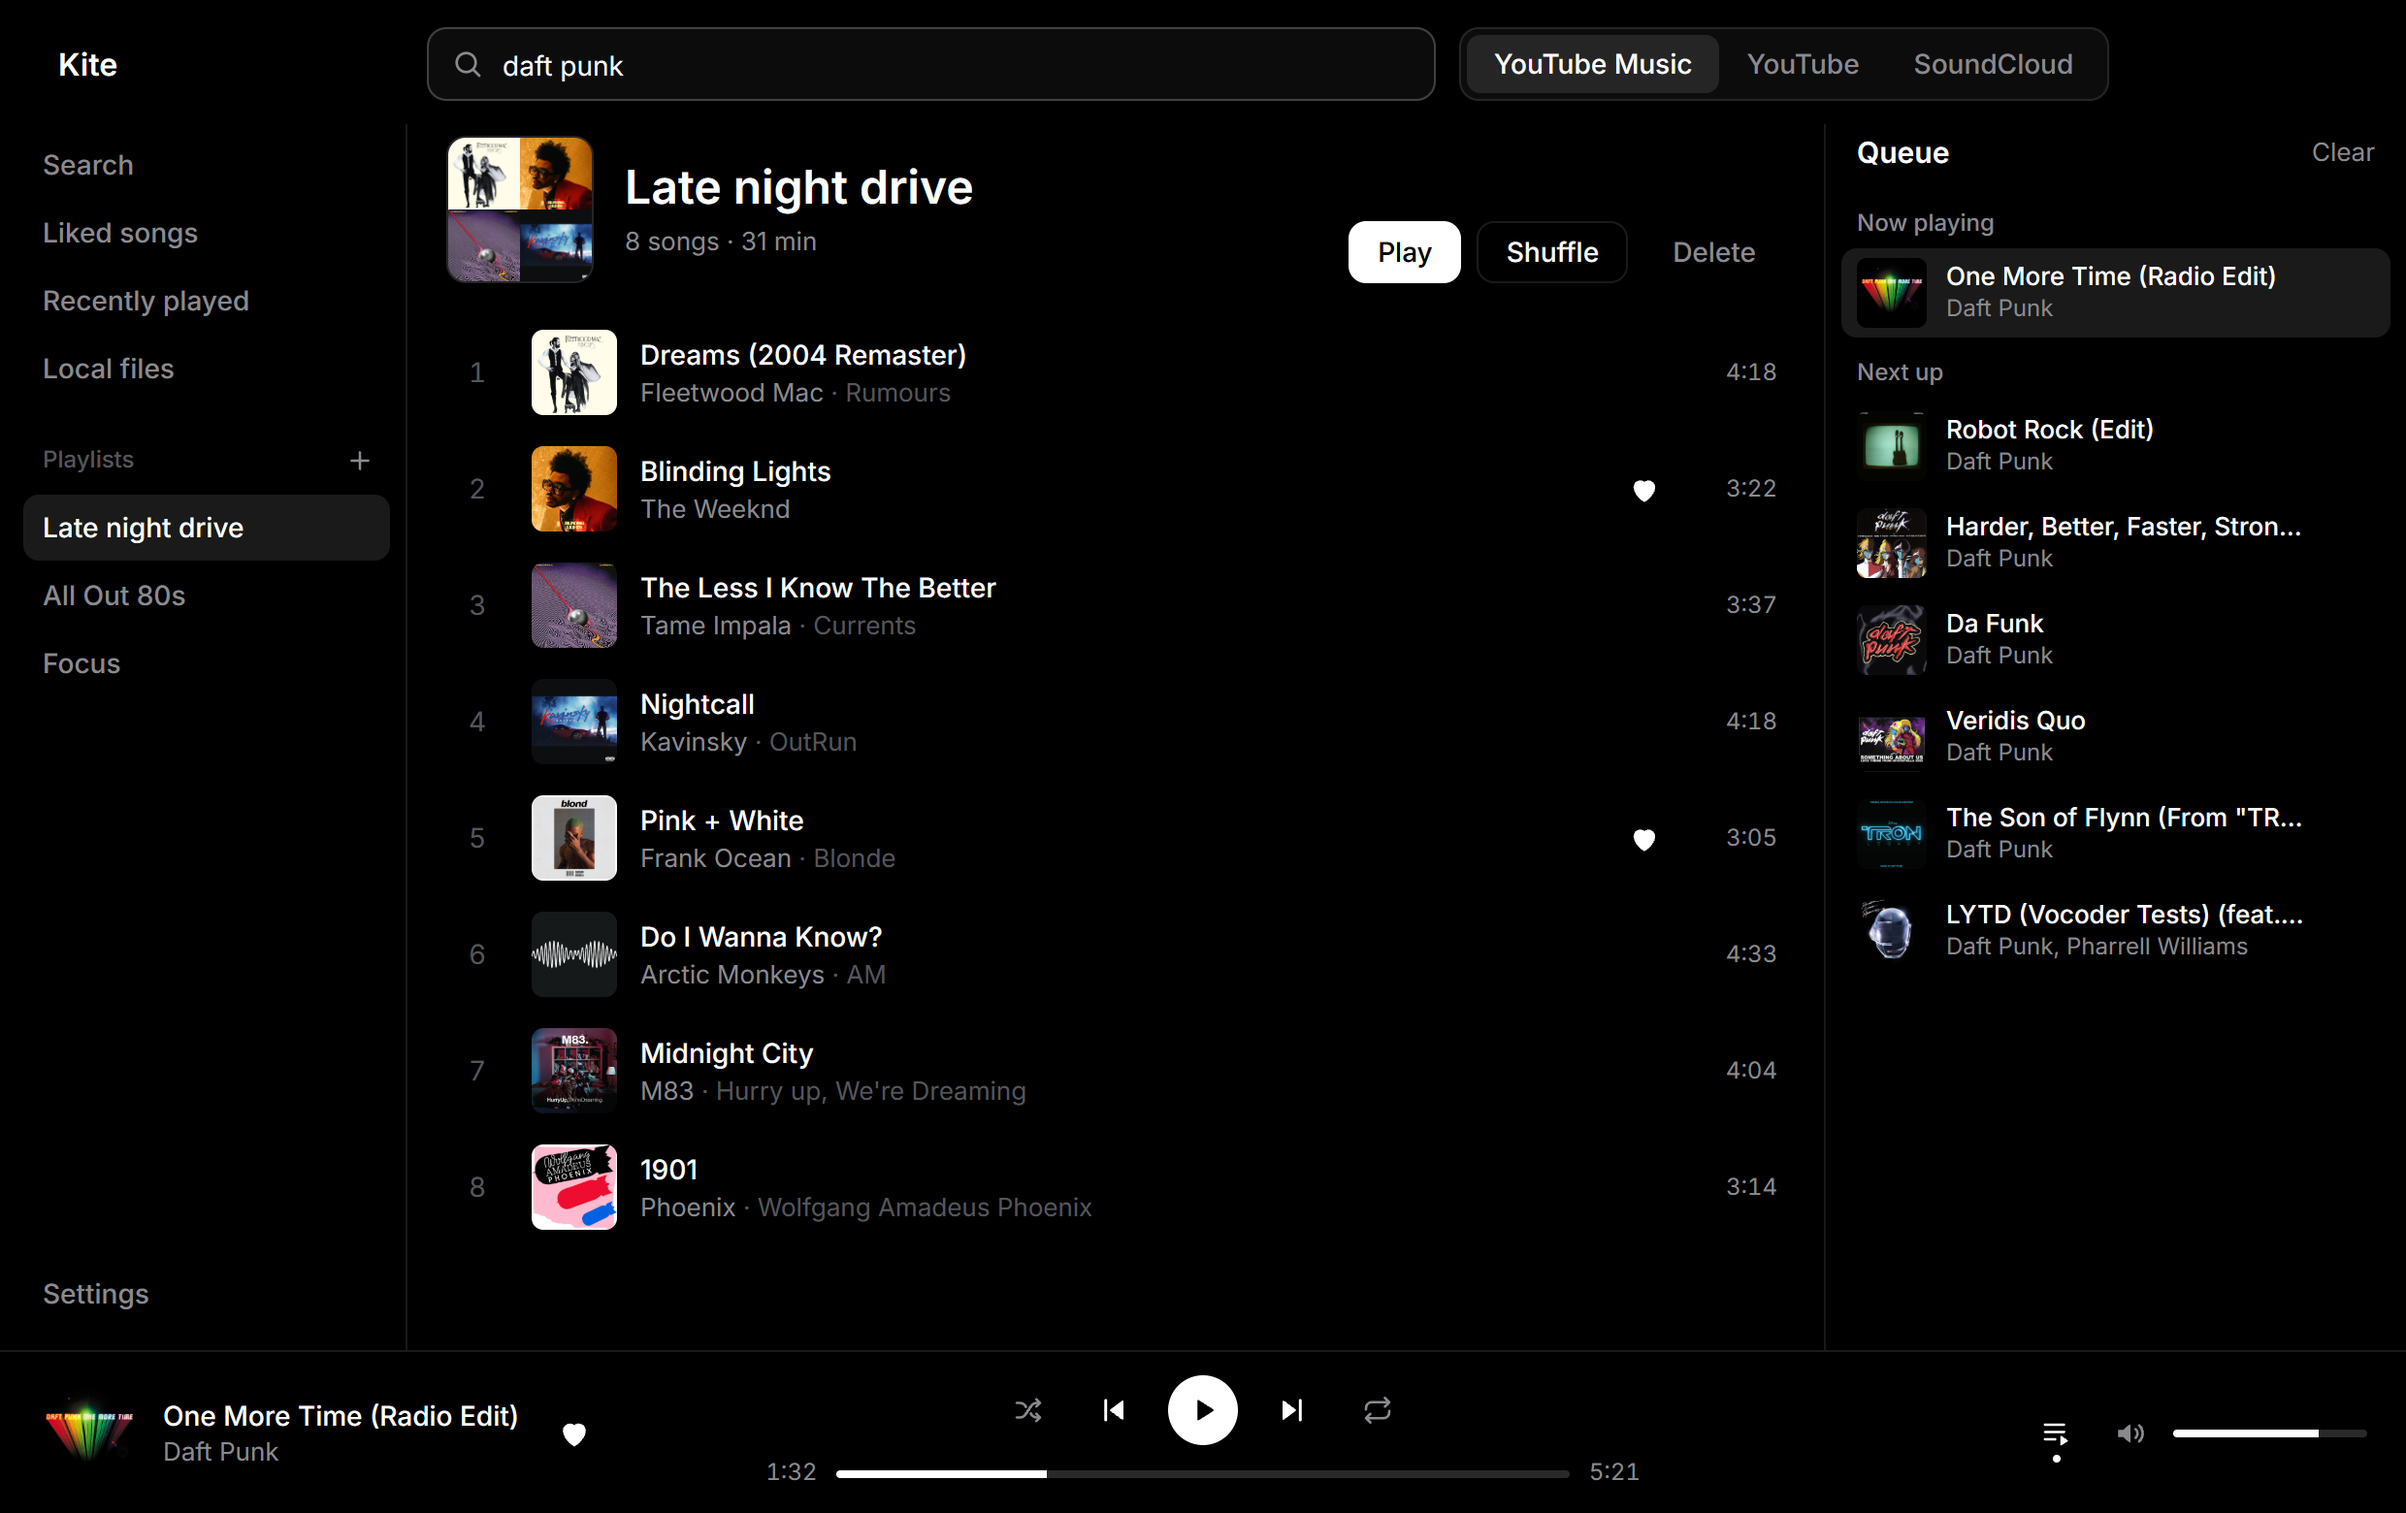
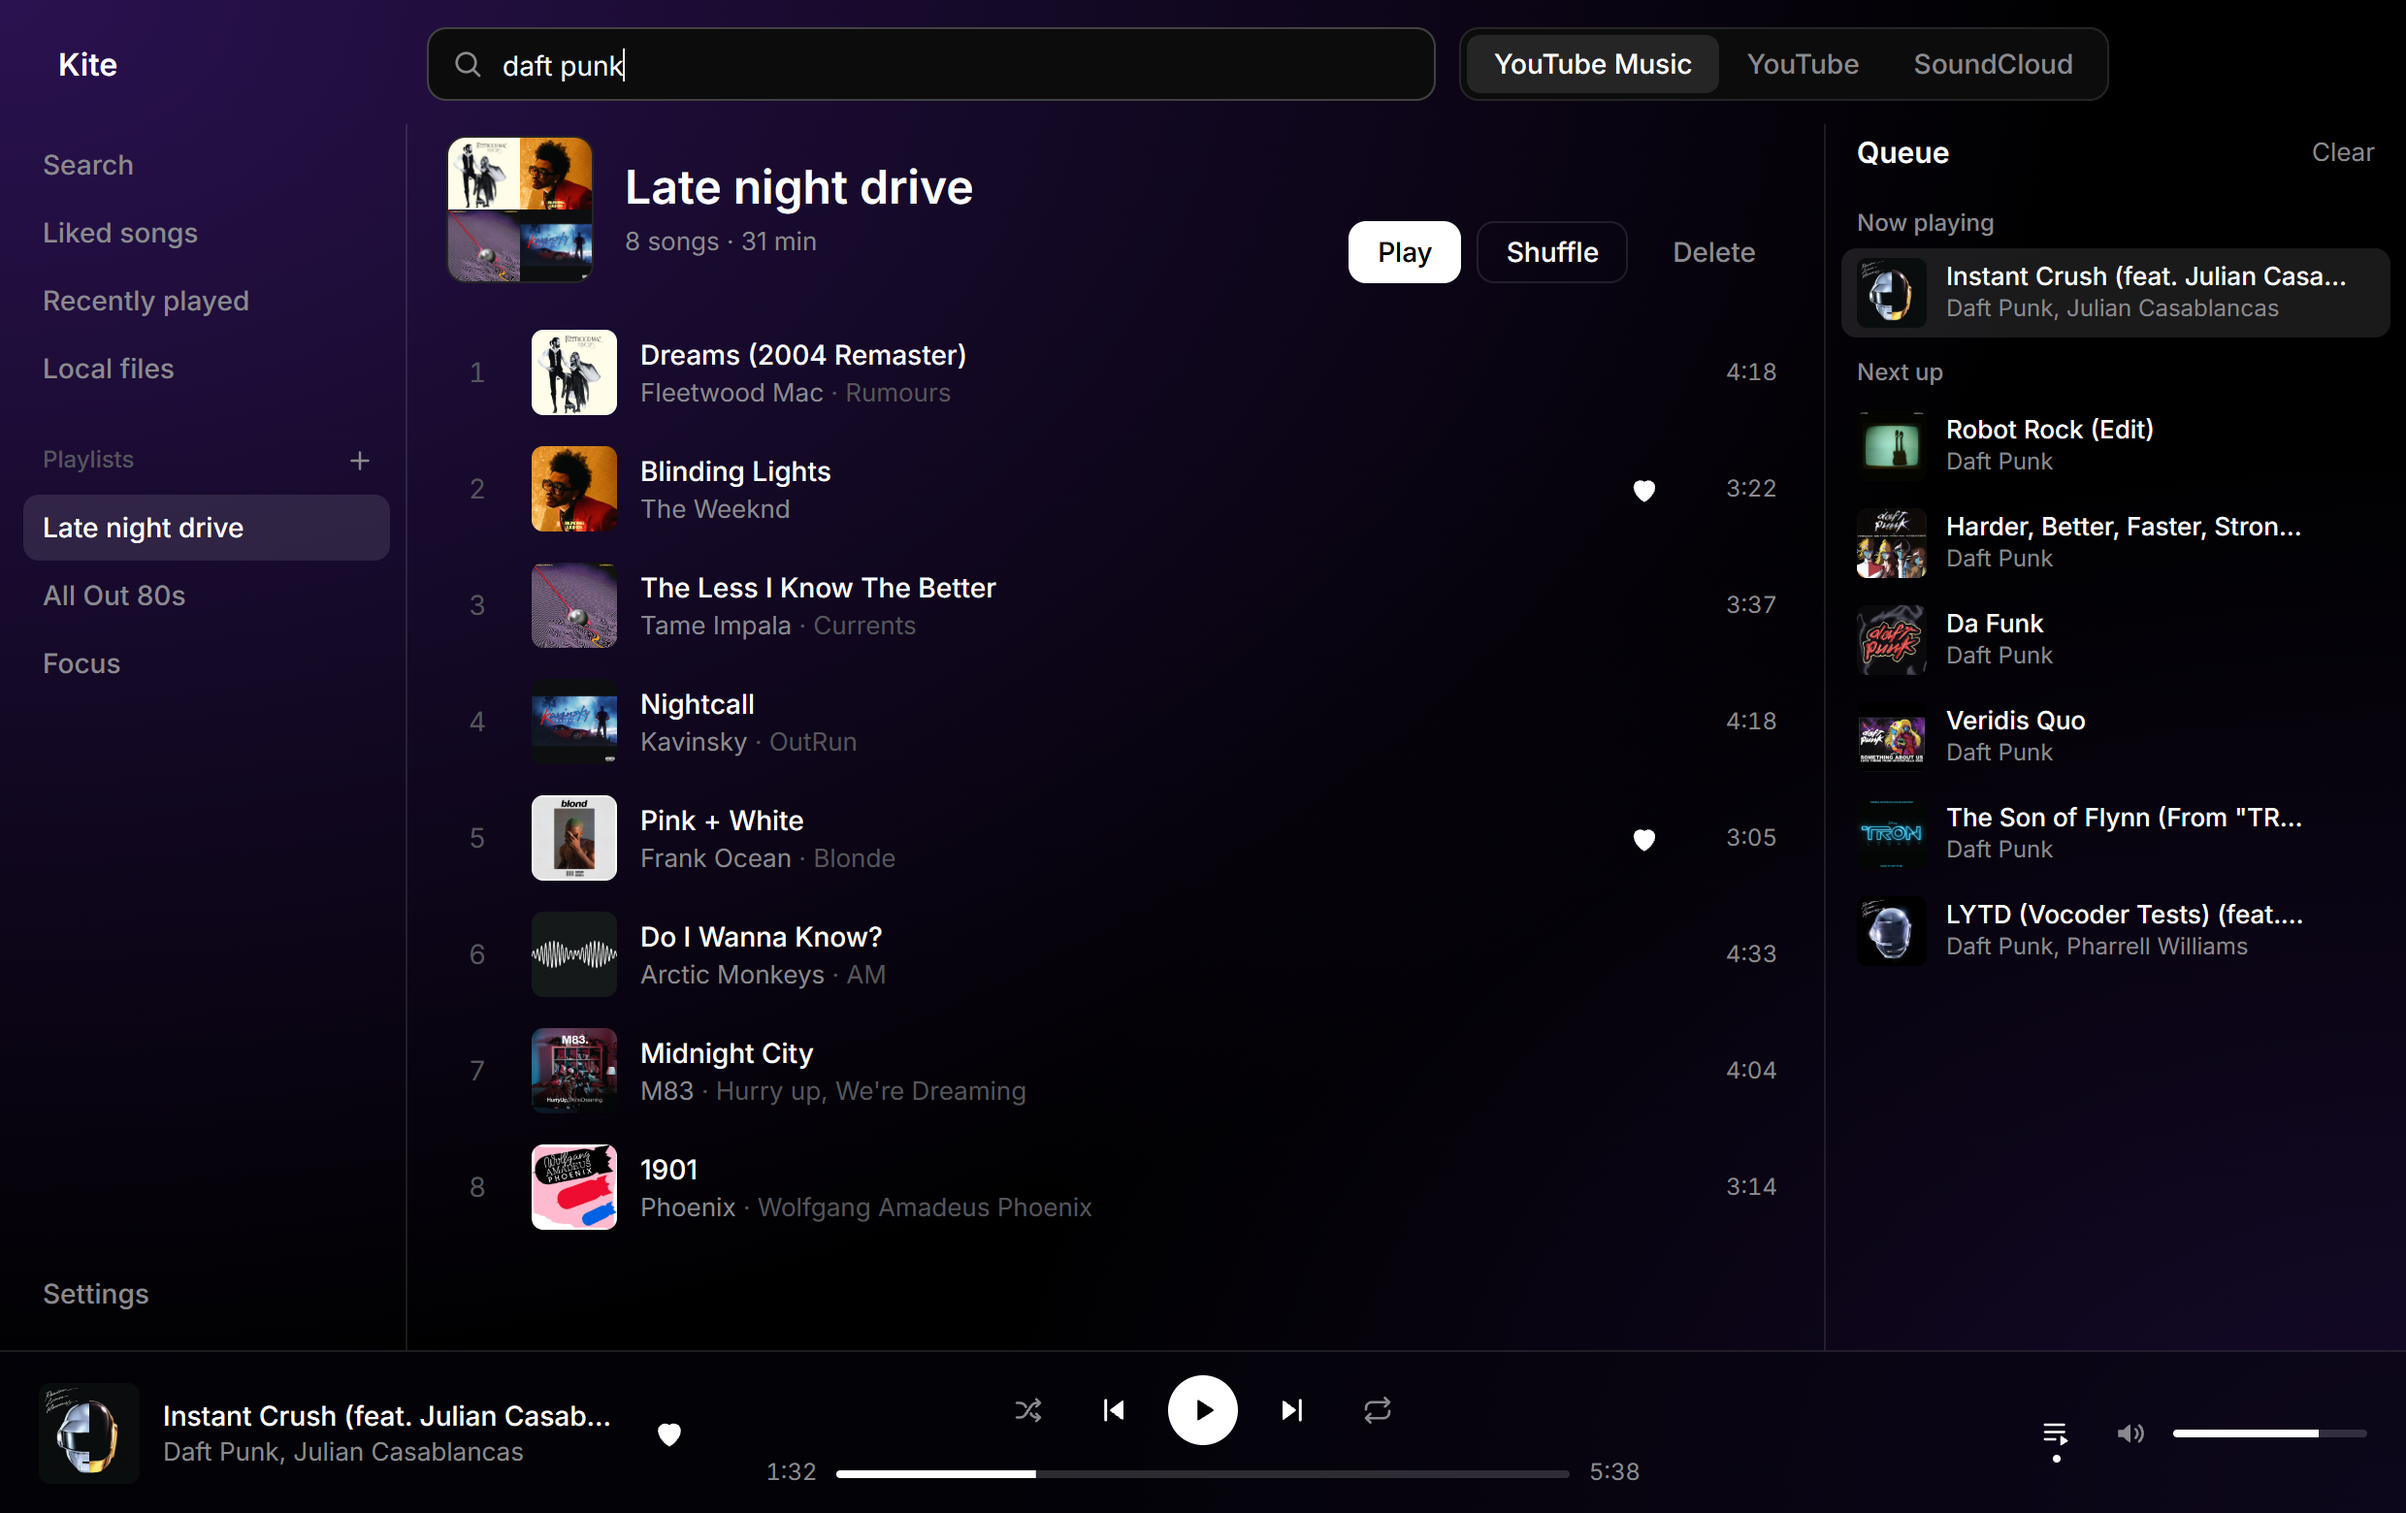
Deep purple background
A dark purple glow from the top left fades to black behind the whole
window, with white controls on top. Colors live in CSS variables
(--accent, --grad, --on-accent). README screenshots updated.

diff --git a/src/app.css b/src/app.css
@@ -9,6 +9,14 @@
   --faint: #55555a;
   --error: #ff6b6b;
   --radius: 14px;
+  /* Kite's look: a deep purple backdrop (see body), with crisp white controls on top. */
+  --accent: #fff;
+  --accent-2: #fff;
+  --accent-text: #fff;
+  --grad: #fff;
+  --on-accent: #000;
+  --accent-soft: rgba(255, 255, 255, 0.1);
+  --accent-softer: rgba(255, 255, 255, 0.07);
   color-scheme: dark;
 }
 
@@ -20,7 +28,11 @@ html,
 body {
   margin: 0;
   height: 100%;
-  background: var(--bg);
+  /* Deep purple from the top left, fading to black, with a little in the bottom right. */
+  background:
+    radial-gradient(1500px 1000px at 0% 0%, #2a1250 0%, rgba(42, 18, 80, 0.45) 38%, transparent 72%),
+    radial-gradient(1200px 900px at 100% 100%, #160a2c 0%, transparent 62%),
+    var(--bg);
   color: var(--text);
   font: 14px/1.4 Inter, system-ui, sans-serif;
   -webkit-font-smoothing: antialiased;
@@ -98,12 +110,13 @@ input {
   background: var(--hover);
 }
 .btn.primary {
-  background: var(--text);
-  border-color: var(--text);
-  color: #000;
+  background: var(--grad);
+  border-color: transparent;
+  color: var(--on-accent);
 }
-.btn.primary:hover {
-  background: #e6e6e6;
+.btn.primary:hover:not(:disabled) {
+  background: var(--grad);
+  filter: brightness(0.9);
 }
 .btn.text {
   border-color: transparent;
@@ -149,6 +162,6 @@ input {
   color: var(--text);
 }
 .segmented button.on {
-  background: var(--active);
+  background: var(--accent-soft);
   color: var(--text);
 }

diff --git a/src/lib/PlayerBar.svelte b/src/lib/PlayerBar.svelte
@@ -120,7 +120,7 @@
     align-items: center;
     padding: 12px 20px;
     border-top: 1px solid var(--border);
-    background: var(--bg);
+    background: rgba(6, 3, 12, 0.55);
   }
   .player.idle .title {
     color: var(--muted);
@@ -178,6 +178,9 @@
     stroke: currentColor;
     stroke-width: 1.8;
     stroke-linejoin: round;
+  }
+  .icon.small.heart.on {
+    color: var(--accent-text);
   }
   .heart.on svg {
     fill: currentColor !important;
@@ -251,11 +254,12 @@
   .icon.play {
     width: 36px;
     height: 36px;
-    background: var(--text);
-    color: #000;
+    background: var(--grad);
+    color: var(--on-accent);
   }
   .icon.play:hover {
-    background: #e6e6e6;
+    background: var(--grad);
+    filter: brightness(0.9);
   }
   .seek {
     display: grid;
@@ -292,7 +296,8 @@
   input[type="range"]::-webkit-slider-runnable-track {
     height: 4px;
     border-radius: 2px;
-    background: linear-gradient(to right, var(--text) var(--p, 0%), rgba(255, 255, 255, 0.16) var(--p, 0%));
+    background: linear-gradient(90deg, var(--accent), var(--accent-2)) left / var(--p, 0%) 100% no-repeat,
+      rgba(255, 255, 255, 0.16);
   }
   input[type="range"]::-webkit-slider-thumb {
     -webkit-appearance: none;
@@ -320,7 +325,7 @@
   }
   .spinner.dark {
     border: 2px solid rgba(0, 0, 0, 0.2);
-    border-top-color: #000;
+    border-top-color: var(--on-accent);
   }
   @keyframes spin {
     to {

diff --git a/src/lib/TrackList.svelte b/src/lib/TrackList.svelte
@@ -138,7 +138,7 @@
     background: var(--hover);
   }
   .row.current {
-    background: var(--active);
+    background: var(--accent-softer);
   }
   .num {
     text-align: center;
@@ -205,7 +205,7 @@
     stroke-linejoin: round;
   }
   .heart.on {
-    color: var(--text);
+    color: var(--accent-text);
   }
   .heart.on svg {
     fill: currentColor;
@@ -237,7 +237,7 @@
   .bars i {
     width: 3px;
     height: 12px;
-    background: var(--text);
+    background: var(--grad);
     border-radius: 1px;
     transform-origin: bottom;
     will-change: transform;

diff --git a/src/views/SettingsView.svelte b/src/views/SettingsView.svelte
@@ -233,10 +233,10 @@
     transition: transform 0.15s;
   }
   .switch.on {
-    background: #fff;
+    background: var(--grad);
   }
   .switch.on span {
-    background: #000;
+    background: var(--on-accent);
     transform: translateX(16px);
   }
 </style>

diff --git a/src/lib/Sidebar.svelte b/src/lib/Sidebar.svelte
@@ -169,7 +169,7 @@
   }
   .item.on {
     color: var(--text);
-    background: var(--active);
+    background: var(--accent-soft);
   }
   .item.drop {
     color: var(--text);

diff --git a/src/lib/QueuePanel.svelte b/src/lib/QueuePanel.svelte
@@ -171,7 +171,7 @@
     background: var(--hover);
   }
   .item.current {
-    background: var(--active);
+    background: var(--accent-soft);
   }
   .art {
     width: 36px;
